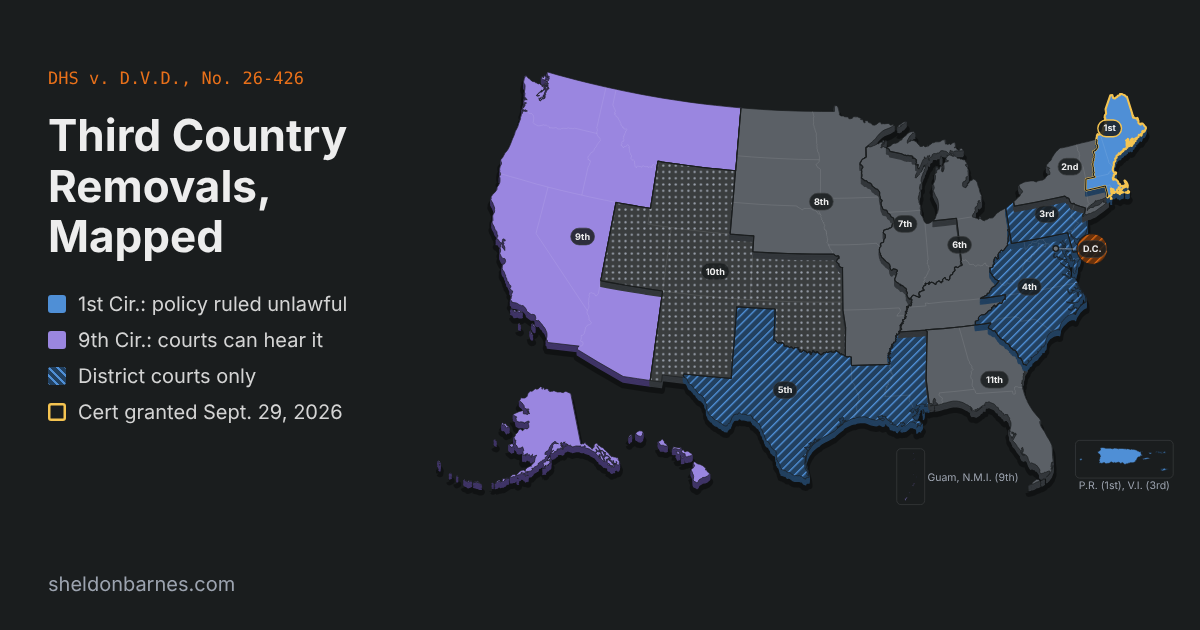
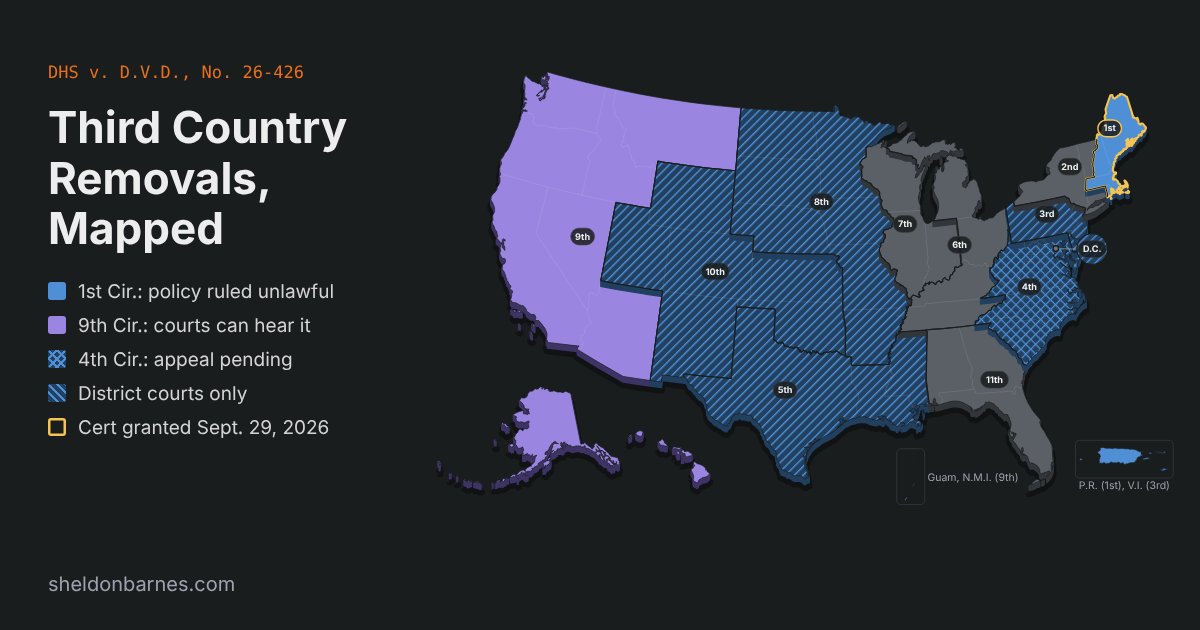
Add Fourth Circuit appeal and new district rulings to third country map
Adds Bojorquez v. Baker (D. Md.), now on appeal as No. 25-6996 with a
Fourth Circuit stay of removal, as a new crosshatched status. Adds
Ansumana S. v. Blanche (D. Minn.), Arostegui-Maldonado v. Baltazar
(D. Colo.), and Zapata v. Mullin (D.D.C.), notes the Eighth Circuit's
Jama exception, flags an Eleventh Circuit lead, and confirms the 6 hour
notice window from the July 2025 guidance. Regenerates the social card.

Claude-Session: https://claude.ai/code/session_01TVgK9isvd4pbjbzk73d2xz

diff --git a/src/components/blog/third-country/ThirdCountryExplorer.tsx b/src/components/blog/third-country/ThirdCountryExplorer.tsx
@@ -18,7 +18,7 @@ import Cite, { type CiteSegments } from "../bond-split/Cite";
  */
 
 type View = "removal" | "juris";
-type RemovalStatus = "merits" | "access" | "district" | "denied" | "filings" | "none";
+type RemovalStatus = "merits" | "access" | "pending" | "district" | "denied" | "filings" | "none";
 type JurisStatus = "allows" | "exercised" | "rejects" | "none";
 
 interface CaseItem {
@@ -86,12 +86,14 @@ interface Style {
 
 const HATCH_BLUE = "repeating-linear-gradient(45deg,#4f8fd6 0 2px,#22405f 2px 6px)";
 const HATCH_ORANGE = "repeating-linear-gradient(45deg,#dd6814 0 2px,#6a320b 2px 6px)";
+const CROSS_BLUE = "repeating-linear-gradient(45deg,#4f8fd6 0 2px,transparent 2px 6px),repeating-linear-gradient(-45deg,#4f8fd6 0 2px,#22405f 2px 6px)";
 const DOTS_GREY = "radial-gradient(circle,#9ca3af 1.2px,#3a3d3e 1.5px) 0 0/6px 6px";
 
 const STYLES: { removal: Record<RemovalStatus, Style>; juris: Record<JurisStatus, Style> } = {
   removal: {
     merits: { top: BLUE.top, swatch: BLUE.top, side: BLUE.side, hover: BLUE.hover, label: "Court of appeals ruled on the policy" },
     access: { top: VIOLET.top, swatch: VIOLET.top, side: VIOLET.side, hover: VIOLET.hover, label: "Court of appeals ruled on court access, plus district relief" },
+    pending: { top: "url(#tc-cross-blue)", swatch: CROSS_BLUE, side: BLUE.side, hover: "url(#tc-cross-blue)", label: "Appeal pending; court of appeals stayed a removal" },
     district: { top: "url(#tc-hatch-blue)", swatch: HATCH_BLUE, side: BLUE.side, hover: "url(#tc-hatch-blue-h)", label: "No appellate opinion; district courts stopped individual removals" },
     denied: { top: "url(#tc-hatch-orange)", swatch: HATCH_ORANGE, side: ORANGE.side, hover: "url(#tc-hatch-orange)", label: "No appellate opinion; district court denied relief" },
     filings: { top: "url(#tc-dots)", swatch: DOTS_GREY, side: GREY.side, hover: "url(#tc-dots)", label: "Petitions pending; no ruling found" },
@@ -108,10 +110,10 @@ const STYLES: { removal: Record<RemovalStatus, Style>; juris: Record<JurisStatus
 const VIEW_COPY: Record<View, { tab: string; sub: string; stats: { value: string; label: string; swatch: string; ring?: boolean }[] }> = {
   removal: {
     tab: "Removal procedures",
-    sub: "Where courts have ruled on how DHS sends people to countries not named in their removal orders. Solid fill means a court of appeals; striped fill means only district courts. Select a circuit for the cases.",
+    sub: "Where courts have ruled on how DHS sends people to countries not named in their removal orders. Solid fill means a court of appeals ruled; crosshatch means an appeal is pending; striped fill means only district courts have acted. Select a circuit for the cases.",
     stats: [
       { value: "1", label: "court of appeals has ruled on the policy (1st)", swatch: BLUE.top },
-      { value: "3", label: "circuits with no appellate opinion where district courts stopped removals", swatch: HATCH_BLUE },
+      { value: "6", label: "more circuits where district courts stopped removals, one with an appeal pending (4th)", swatch: HATCH_BLUE },
       { value: "Dec. 9", label: "argument in DHS v. D.V.D.", swatch: CERT_RING, ring: true },
     ],
   },
@@ -224,6 +226,11 @@ export default function ThirdCountryExplorer() {
             <Hatch id="tc-hatch-blue" line={BLUE.top} bg={BLUE.side} />
             <Hatch id="tc-hatch-blue-h" line={BLUE.hover} bg="#2b4f75" />
             <Hatch id="tc-hatch-orange" line={ORANGE.top} bg={ORANGE.side} />
+            <pattern id="tc-cross-blue" patternUnits="userSpaceOnUse" width="10" height="10" patternTransform="rotate(45)">
+              <rect width="10" height="10" fill={BLUE.side} />
+              <line x1="0" y1="0" x2="0" y2="10" stroke={BLUE.top} strokeWidth="3.5" />
+              <line x1="0" y1="0" x2="10" y2="0" stroke={BLUE.top} strokeWidth="3.5" />
+            </pattern>
             <pattern id="tc-dots" patternUnits="userSpaceOnUse" width="9" height="9">
               <rect width="9" height="9" fill="#3a3d3e" />
               <circle cx="4.5" cy="4.5" r="1.6" fill="#9ca3af" />

diff --git a/content/blog/third-country-removal-circuit-map.md b/content/blog/third-country-removal-circuit-map.md
@@ -6,7 +6,7 @@ author: "Sheldon Barnes"
 category: "law-and-policy"
 tags: ["immigration", "supreme-court", "circuit-split", "third-country-removal", "habeas", "jurisdiction", "law-school"]
 hero: "/images/third-country/circuit-map-social.png"
-heroAlt: "Map of the United States divided into federal judicial circuits. The First Circuit is solid blue and outlined in gold for certiorari granted, the Ninth is violet, the Third, Fourth, and Fifth are striped blue for district court relief, and the rest are grey."
+heroAlt: "Map of the United States divided into federal judicial circuits. The First Circuit is solid blue and outlined in gold for certiorari granted, the Ninth is violet, the Fourth is crosshatched for a pending appeal, the Third, Fifth, Eighth, Tenth, and D.C. Circuits are striped blue for district court relief, and the rest are grey."
 socialImage: "/images/third-country/circuit-map-social.png"
 skipHero: true
 published: true
@@ -18,7 +18,7 @@ I built the [bond split map](/blog/immigration-bond-circuit-split-map-and-data) 
 
 ## The question
 
-When an immigration judge orders someone removed but grants withholding of removal or protection under the Convention Against Torture as to their home country, DHS may still send that person somewhere else. In March 2025, and again in July 2025, DHS issued guidance on how. Where a receiving country gives diplomatic assurances, the guidance allows removal with no notice at all. Otherwise it allows removal about 24 hours after notice, with a fear screening only if the person raises a fear on their own.
+When an immigration judge orders someone removed but grants withholding of removal or protection under the Convention Against Torture as to their home country, DHS may still send that person somewhere else. In March 2025, and again in July 2025, DHS issued guidance on how. Where a receiving country gives diplomatic assurances, the guidance allows removal with no notice at all. Otherwise it allows removal 24 hours after notice, or as little as 6 hours in undefined "exigent circumstances," with a fear screening only if the person raises a fear on their own.
 
 A nationwide class challenged that guidance in the District of Massachusetts. The district court set it aside, and on September 18, 2026 the First Circuit largely affirmed, holding that the statutes and regulations require meaningful notice and a meaningful opportunity to raise a fear of persecution or torture before removal to a country not named in the removal order.
 
@@ -28,19 +28,23 @@ The Supreme Court directed the parties to brief four questions: whether the dist
 
 {{third-country-map}}
 
-Only the First Circuit has ruled on the policy itself. The map has two views. The first shows rulings on removal procedures, with striped fills for circuits where district courts stopped individual removals but no court of appeals has spoken. The second shows the circuit split that does exist, over how far 8 U.S.C. 1252(g) strips courts of jurisdiction, because that is the first question the Justices will take up.
+Only the First Circuit has ruled on the policy itself, but it may not stay alone for long. The map has two views. The first shows rulings on removal procedures, with striped fills for circuits where district courts stopped individual removals but no court of appeals has spoken. The second shows the circuit split that does exist, over how far 8 U.S.C. 1252(g) strips courts of jurisdiction, because that is the first question the Justices will take up.
 
 ## Why there is no merits split
 
 The bond question reached eleven circuits because each detainee had to sue where he was held, and the Court had already barred classwide injunctions against the detention statutes in *Garland v. Aleman Gonzalez*. The third country question took the other road. The plaintiffs challenged DHS guidance as agency action under the APA, on behalf of a nationwide class that does not allow opting out, and asked for declaratory relief and vacatur instead of an injunction. One district court could then decide the policy for everyone, and no other circuit ever had the policy in front of it.
 
-The class also works as a shield. In habeas cases from Texas and Colorado, the government argues that the petitioner is a class member bound by *D.V.D.* and cannot litigate the same procedures separately. Some district courts have proceeded anyway on individual due process grounds. In the District of Maryland, *Cruz-Medina v. Noem* barred a removal to Mexico until an immigration judge reviews the asylum officer's negative fear finding. In the Southern District of Texas, *Sagastizado Sanchez v. Noem* held that people facing third country removal have a right to meaningful notice and a chance to be heard. In New Jersey, a court barred the transfer of a woman arrested for removal to Ghana while it considered her claim. Those are the striped circuits on the map.
+The class also works as a shield. In habeas cases from Texas and Colorado, the government argues that the petitioner is a class member bound by *D.V.D.* and cannot litigate the same procedures separately. Some district courts have proceeded anyway on individual due process grounds. In the District of Maryland, *Cruz-Medina v. Noem* barred a removal to Mexico until an immigration judge reviews the asylum officer's negative fear finding. In the Southern District of Texas, *Sagastizado Sanchez v. Noem* held that people facing third country removal have a right to meaningful notice and a chance to be heard. In New Jersey, a court barred the transfer of a woman arrested for removal to Ghana while it considered her claim. District courts in Minnesota and Colorado have done the same: *Ansumana S. v. Blanche* (D. Minn. Sept. 3, 2026) barred a removal to Sierra Leone even though that country had given diplomatic assurances, and *Arostegui-Maldonado v. Baltazar* (D. Colo. 2025) barred a removal while the court decided the case. In Washington, D.C., *Zapata v. Mullin* ordered the return of a woman sent to the Congo on a different theory: the statute allows removal only to a country that will accept the person, and the Congo had refused. Those are the striped circuits on the map.
+
+## The Fourth Circuit appeal
+
+One of those cases is now in a court of appeals. In *Bojorquez v. Baker*, the District of Maryland denied a preliminary injunction on November 7, 2025 in a challenge to a removal to Mexico after a negative USCIS fear screening. The petitioner appealed. The Fourth Circuit stayed his removal, ordered supplemental briefing, and on January 26, 2026 granted a stay of removal pending appeal, No. 25-6996. Briefing closed on April 29, 2026, and the docket I reviewed, current through May 24, shows no argument or decision. If the Fourth Circuit rules before the Supreme Court does, it will be the second court of appeals to speak to third country procedures, and the first to reach the merits of those procedures in an individual habeas case rather than a class action. That is the crosshatched circuit on the map.
 
 ## The split that does exist
 
 Question 1 asks whether the district court had jurisdiction. The main fight is over 8 U.S.C. 1252(g), which bars any claim "arising from" a decision to "execute removal orders." In *Ibarra-Perez v. United States*, 154 F.4th 989 (9th Cir. 2025), a Cuban man with withholding as to Cuba was sent to Mexico about sixteen hours after he was told, over his repeated objection that he feared it. The Ninth Circuit held that 1252(g) did not bar his damages suit, because he challenged ICE's separate decision about where to send him and its legal authority to do so without process, not its discretion over whether or when to remove him.
 
-On June 25, 2026, the Ninth Circuit denied rehearing en banc. Judge Bea, joined by eleven colleagues, wrote that the panel's reading "has been rejected by every other circuit that has considered it," and named four: the Third Circuit in *Tazu*, the Seventh in *E.F.L. v. Prim*, the Eighth in *Silva*, and the Eleventh in *Camarena*. Those cases did not involve third country removals, but they frame the jurisdiction question the Court will answer first. Judge Bea also collected district courts across the Ninth Circuit, and some outside it, that have relied on *Ibarra-Perez* to hear third country claims. The Solicitor General has until October 23, 2026 to seek review of *Ibarra-Perez*.
+On June 25, 2026, the Ninth Circuit denied rehearing en banc. Judge Bea, joined by eleven colleagues, wrote that the panel's reading "has been rejected by every other circuit that has considered it," and named four: the Third Circuit in *Tazu*, the Seventh in *E.F.L. v. Prim*, the Eighth in *Silva*, and the Eleventh in *Camarena*. Those cases did not involve third country removals, but they frame the jurisdiction question the Court will answer first. The count is less tidy than it looks. In *Ansumana S.*, a Minnesota district court heard a third country claim anyway, relying on the Eighth Circuit's older exception in *Jama v. INS*, 329 F.3d 630 (8th Cir. 2003), for habeas claims that present a pure question of law. Judge Bea also collected district courts across the Ninth Circuit, and some outside it, that have relied on *Ibarra-Perez* to hear third country claims. The Solicitor General has until October 23, 2026 to seek review of *Ibarra-Perez*.
 
 ## Why Question 2 matters beyond this case
 
